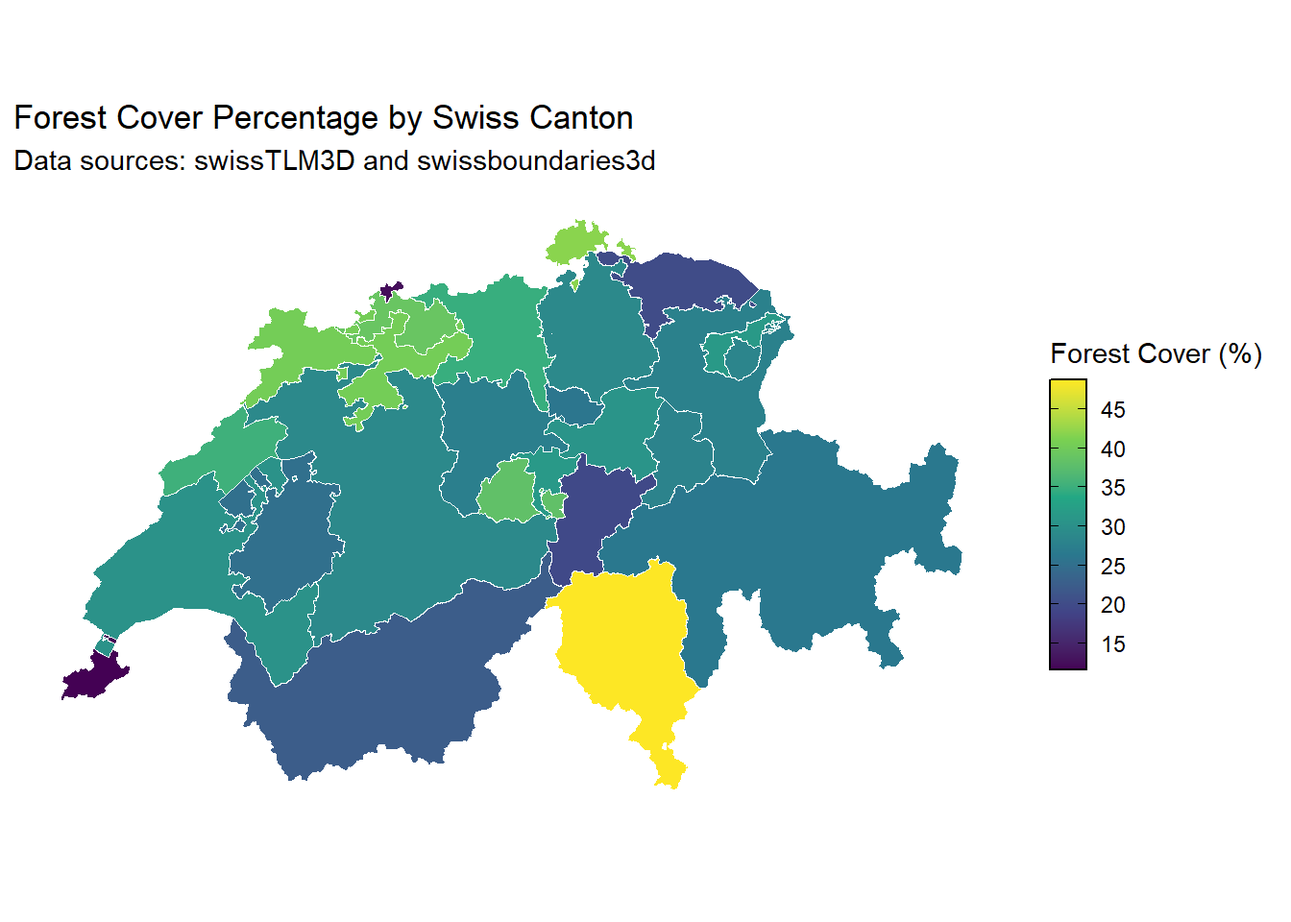
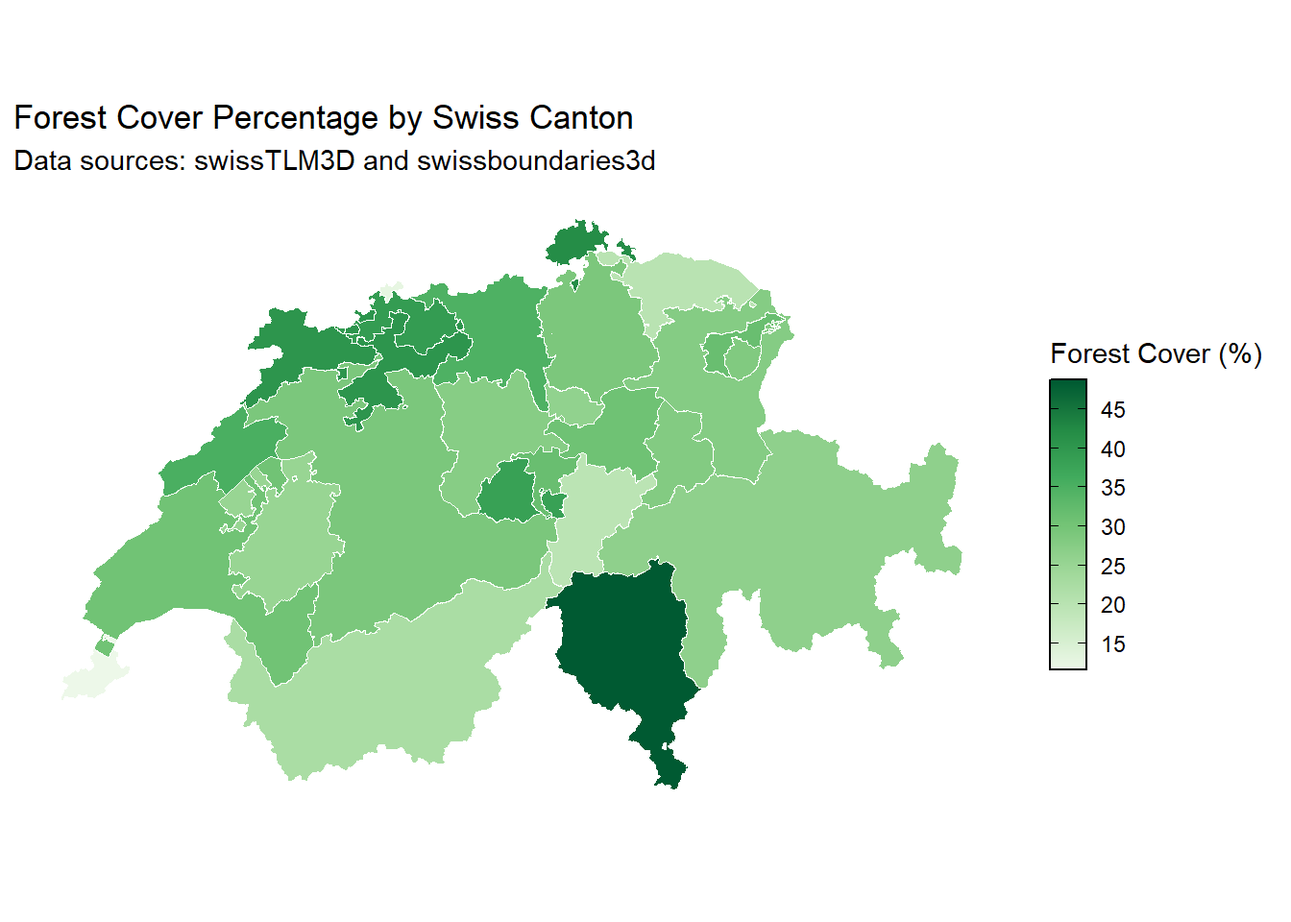
small improvements
Better colours for map in task 1,
Small Discussion for task 1,
Add legend for plots in task 3,
Use of AI statement

Changed region(s): [[0.0312, 0.2188, 0.75, 0.875], [0.8125, 0.4062, 0.8438, 0.75]]

diff --git a/_docs/index.html b/_docs/index.html
@@ -406,7 +406,7 @@ all geometries</code></pre>
 <span id="cb28-20"><a href="#cb28-20" aria-hidden="true" tabindex="-1"></a><span class="co"># Stop timer</span></span>
 <span id="cb28-21"><a href="#cb28-21" aria-hidden="true" tabindex="-1"></a><span class="fu">toc</span>()</span></code></pre></div><button title="Copy to Clipboard" class="code-copy-button"><i class="bi"></i></button></div>
 <div class="cell-output cell-output-stdout">
-<pre><code>Task 1: sf processing: 169.03 sec elapsed</code></pre>
+<pre><code>Task 1: sf processing: 168.72 sec elapsed</code></pre>
 </div>
 </div>
 <section id="visualizations" class="level4">
@@ -420,30 +420,31 @@ all geometries</code></pre>
 <span id="cb30-6"><a href="#cb30-6" aria-hidden="true" tabindex="-1"></a><span class="co"># Plot the choropleth map</span></span>
 <span id="cb30-7"><a href="#cb30-7" aria-hidden="true" tabindex="-1"></a><span class="fu">ggplot</span>(<span class="at">data =</span> cantons_result) <span class="sc">+</span></span>
 <span id="cb30-8"><a href="#cb30-8" aria-hidden="true" tabindex="-1"></a>  <span class="fu">geom_sf</span>(<span class="fu">aes</span>(<span class="at">fill =</span> forest_pct), <span class="at">color =</span> <span class="st">"white"</span>, <span class="at">linewidth =</span> <span class="fl">0.2</span>) <span class="sc">+</span></span>
-<span id="cb30-9"><a href="#cb30-9" aria-hidden="true" tabindex="-1"></a>  <span class="fu">scale_fill_viridis_c</span>(</span>
+<span id="cb30-9"><a href="#cb30-9" aria-hidden="true" tabindex="-1"></a>  <span class="fu">scale_fill_distiller</span>(</span>
 <span id="cb30-10"><a href="#cb30-10" aria-hidden="true" tabindex="-1"></a>    <span class="at">name =</span> <span class="st">"Forest Cover (%)"</span>,</span>
-<span id="cb30-11"><a href="#cb30-11" aria-hidden="true" tabindex="-1"></a>    <span class="at">option =</span> <span class="st">"viridis"</span>,</span>
-<span id="cb30-12"><a href="#cb30-12" aria-hidden="true" tabindex="-1"></a>    <span class="at">breaks =</span> breaks_vec, <span class="co"># Set specific tick marks</span></span>
-<span id="cb30-13"><a href="#cb30-13" aria-hidden="true" tabindex="-1"></a>    <span class="at">guide =</span> <span class="fu">guide_colorbar</span>(</span>
-<span id="cb30-14"><a href="#cb30-14" aria-hidden="true" tabindex="-1"></a>      <span class="at">barheight =</span> <span class="fu">unit</span>(<span class="dv">4</span>, <span class="st">"cm"</span>), </span>
-<span id="cb30-15"><a href="#cb30-15" aria-hidden="true" tabindex="-1"></a>      <span class="at">barwidth =</span> <span class="fu">unit</span>(<span class="fl">0.5</span>, <span class="st">"cm"</span>), </span>
-<span id="cb30-16"><a href="#cb30-16" aria-hidden="true" tabindex="-1"></a>      <span class="at">frame.colour =</span> <span class="st">"black"</span>,     <span class="co"># Add frame for clarity</span></span>
-<span id="cb30-17"><a href="#cb30-17" aria-hidden="true" tabindex="-1"></a>      <span class="at">ticks.colour =</span> <span class="st">"black"</span></span>
-<span id="cb30-18"><a href="#cb30-18" aria-hidden="true" tabindex="-1"></a>    )</span>
-<span id="cb30-19"><a href="#cb30-19" aria-hidden="true" tabindex="-1"></a>  ) <span class="sc">+</span></span>
-<span id="cb30-20"><a href="#cb30-20" aria-hidden="true" tabindex="-1"></a>  <span class="fu">theme_minimal</span>() <span class="sc">+</span></span>
-<span id="cb30-21"><a href="#cb30-21" aria-hidden="true" tabindex="-1"></a>  <span class="co"># Remove grid lines and axis text </span></span>
-<span id="cb30-22"><a href="#cb30-22" aria-hidden="true" tabindex="-1"></a>  <span class="fu">theme</span>(</span>
-<span id="cb30-23"><a href="#cb30-23" aria-hidden="true" tabindex="-1"></a>    <span class="at">panel.grid.major =</span> <span class="fu">element_blank</span>(),</span>
-<span id="cb30-24"><a href="#cb30-24" aria-hidden="true" tabindex="-1"></a>    <span class="at">panel.grid.minor =</span> <span class="fu">element_blank</span>(),</span>
-<span id="cb30-25"><a href="#cb30-25" aria-hidden="true" tabindex="-1"></a>    <span class="at">axis.text =</span> <span class="fu">element_blank</span>(),</span>
-<span id="cb30-26"><a href="#cb30-26" aria-hidden="true" tabindex="-1"></a>    <span class="at">axis.title =</span> <span class="fu">element_blank</span>(),</span>
-<span id="cb30-27"><a href="#cb30-27" aria-hidden="true" tabindex="-1"></a>    <span class="at">legend.position =</span> <span class="st">"right"</span></span>
-<span id="cb30-28"><a href="#cb30-28" aria-hidden="true" tabindex="-1"></a>  ) <span class="sc">+</span></span>
-<span id="cb30-29"><a href="#cb30-29" aria-hidden="true" tabindex="-1"></a>  <span class="fu">labs</span>(</span>
-<span id="cb30-30"><a href="#cb30-30" aria-hidden="true" tabindex="-1"></a>    <span class="at">title =</span> <span class="st">"Forest Cover Percentage by Swiss Canton"</span>,</span>
-<span id="cb30-31"><a href="#cb30-31" aria-hidden="true" tabindex="-1"></a>    <span class="at">subtitle =</span> <span class="st">"Data sources: swissTLM3D and swissboundaries3d"</span></span>
-<span id="cb30-32"><a href="#cb30-32" aria-hidden="true" tabindex="-1"></a>  )</span></code></pre></div><button title="Copy to Clipboard" class="code-copy-button"><i class="bi"></i></button></div>
+<span id="cb30-11"><a href="#cb30-11" aria-hidden="true" tabindex="-1"></a>    <span class="at">palette =</span> <span class="st">"Greens"</span>,</span>
+<span id="cb30-12"><a href="#cb30-12" aria-hidden="true" tabindex="-1"></a>    <span class="at">direction =</span> <span class="dv">1</span>,</span>
+<span id="cb30-13"><a href="#cb30-13" aria-hidden="true" tabindex="-1"></a>    <span class="at">breaks =</span> breaks_vec, </span>
+<span id="cb30-14"><a href="#cb30-14" aria-hidden="true" tabindex="-1"></a>    <span class="at">guide =</span> <span class="fu">guide_colorbar</span>(</span>
+<span id="cb30-15"><a href="#cb30-15" aria-hidden="true" tabindex="-1"></a>      <span class="at">barheight =</span> <span class="fu">unit</span>(<span class="dv">4</span>, <span class="st">"cm"</span>), </span>
+<span id="cb30-16"><a href="#cb30-16" aria-hidden="true" tabindex="-1"></a>      <span class="at">barwidth =</span> <span class="fu">unit</span>(<span class="fl">0.5</span>, <span class="st">"cm"</span>), </span>
+<span id="cb30-17"><a href="#cb30-17" aria-hidden="true" tabindex="-1"></a>      <span class="at">frame.colour =</span> <span class="st">"black"</span>,     </span>
+<span id="cb30-18"><a href="#cb30-18" aria-hidden="true" tabindex="-1"></a>      <span class="at">ticks.colour =</span> <span class="st">"black"</span></span>
+<span id="cb30-19"><a href="#cb30-19" aria-hidden="true" tabindex="-1"></a>    )</span>
+<span id="cb30-20"><a href="#cb30-20" aria-hidden="true" tabindex="-1"></a>  ) <span class="sc">+</span></span>
+<span id="cb30-21"><a href="#cb30-21" aria-hidden="true" tabindex="-1"></a>  <span class="fu">theme_minimal</span>() <span class="sc">+</span></span>
+<span id="cb30-22"><a href="#cb30-22" aria-hidden="true" tabindex="-1"></a>  <span class="co"># Remove grid lines and axis text </span></span>
+<span id="cb30-23"><a href="#cb30-23" aria-hidden="true" tabindex="-1"></a>  <span class="fu">theme</span>(</span>
+<span id="cb30-24"><a href="#cb30-24" aria-hidden="true" tabindex="-1"></a>    <span class="at">panel.grid.major =</span> <span class="fu">element_blank</span>(),</span>
+<span id="cb30-25"><a href="#cb30-25" aria-hidden="true" tabindex="-1"></a>    <span class="at">panel.grid.minor =</span> <span class="fu">element_blank</span>(),</span>
+<span id="cb30-26"><a href="#cb30-26" aria-hidden="true" tabindex="-1"></a>    <span class="at">axis.text =</span> <span class="fu">element_blank</span>(),</span>
+<span id="cb30-27"><a href="#cb30-27" aria-hidden="true" tabindex="-1"></a>    <span class="at">axis.title =</span> <span class="fu">element_blank</span>(),</span>
+<span id="cb30-28"><a href="#cb30-28" aria-hidden="true" tabindex="-1"></a>    <span class="at">legend.position =</span> <span class="st">"right"</span></span>
+<span id="cb30-29"><a href="#cb30-29" aria-hidden="true" tabindex="-1"></a>  ) <span class="sc">+</span></span>
+<span id="cb30-30"><a href="#cb30-30" aria-hidden="true" tabindex="-1"></a>  <span class="fu">labs</span>(</span>
+<span id="cb30-31"><a href="#cb30-31" aria-hidden="true" tabindex="-1"></a>    <span class="at">title =</span> <span class="st">"Forest Cover Percentage by Swiss Canton"</span>,</span>
+<span id="cb30-32"><a href="#cb30-32" aria-hidden="true" tabindex="-1"></a>    <span class="at">subtitle =</span> <span class="st">"Data sources: swissTLM3D and swissboundaries3d"</span></span>
+<span id="cb30-33"><a href="#cb30-33" aria-hidden="true" tabindex="-1"></a>  )</span></code></pre></div><button title="Copy to Clipboard" class="code-copy-button"><i class="bi"></i></button></div>
 <div class="cell-output-display">
 <div>
 <figure class="figure">
@@ -458,11 +459,11 @@ all geometries</code></pre>
 <span id="cb31-3"><a href="#cb31-3" aria-hidden="true" tabindex="-1"></a>cantons_result <span class="sc">|&gt;</span></span>
 <span id="cb31-4"><a href="#cb31-4" aria-hidden="true" tabindex="-1"></a>  <span class="fu">st_drop_geometry</span>() <span class="sc">|&gt;</span> <span class="co"># Remove geometry for standard plotting</span></span>
 <span id="cb31-5"><a href="#cb31-5" aria-hidden="true" tabindex="-1"></a>  <span class="fu">ggplot</span>(<span class="fu">aes</span>(<span class="at">x =</span> <span class="fu">reorder</span>(name, <span class="sc">-</span>forest_pct), <span class="at">y =</span> forest_pct)) <span class="sc">+</span></span>
-<span id="cb31-6"><a href="#cb31-6" aria-hidden="true" tabindex="-1"></a>  <span class="co"># Use geom_col for pre-calculated values. Using a static color from viridis palette.</span></span>
+<span id="cb31-6"><a href="#cb31-6" aria-hidden="true" tabindex="-1"></a>  <span class="co"># Use geom_col for pre-calculated values.</span></span>
 <span id="cb31-7"><a href="#cb31-7" aria-hidden="true" tabindex="-1"></a>  <span class="fu">geom_col</span>(<span class="at">fill =</span> <span class="st">"#3b528b"</span>, <span class="at">width =</span> <span class="fl">0.8</span>) <span class="sc">+</span></span>
 <span id="cb31-8"><a href="#cb31-8" aria-hidden="true" tabindex="-1"></a>  <span class="co"># Add text labels on top of bars for precise reading</span></span>
 <span id="cb31-9"><a href="#cb31-9" aria-hidden="true" tabindex="-1"></a>  <span class="fu">geom_text</span>(<span class="fu">aes</span>(<span class="at">label =</span> <span class="fu">round</span>(forest_pct, <span class="dv">1</span>)), <span class="at">vjust =</span> <span class="sc">-</span><span class="fl">0.5</span>, <span class="at">size =</span> <span class="dv">3</span>) <span class="sc">+</span></span>
-<span id="cb31-10"><a href="#cb31-10" aria-hidden="true" tabindex="-1"></a>  <span class="co"># Adjust y-axis scale to fit labels nicely</span></span>
+<span id="cb31-10"><a href="#cb31-10" aria-hidden="true" tabindex="-1"></a>  <span class="co"># Adjust y-axis scale to fit labels</span></span>
 <span id="cb31-11"><a href="#cb31-11" aria-hidden="true" tabindex="-1"></a>  <span class="fu">scale_y_continuous</span>(<span class="at">expand =</span> <span class="fu">expansion</span>(<span class="at">mult =</span> <span class="fu">c</span>(<span class="dv">0</span>, <span class="fl">0.1</span>))) <span class="sc">+</span></span>
 <span id="cb31-12"><a href="#cb31-12" aria-hidden="true" tabindex="-1"></a>  <span class="fu">theme_minimal</span>() <span class="sc">+</span></span>
 <span id="cb31-13"><a href="#cb31-13" aria-hidden="true" tabindex="-1"></a>  <span class="co"># Rotate x-axis labels to prevent overlapping and remove axis lines</span></span>
@@ -483,6 +484,10 @@ all geometries</code></pre>
 </div>
 </div>
 </section>
+</section>
+<section id="discussion" class="level3">
+<h3 class="anchored" data-anchor-id="discussion">Discussion</h3>
+<p>The results show that the percentage of forest cover varies between ~12 % and ~49 % across all cantons, with Ticino having the highest percentage and the Genève the lowest. Since the dataset is relatively large, this calculation method takes quite some time. To speed this up without changing the general approach, we could also simplify the geometries before the intersection, but this would mean that we have to sacrifice some precision of the results. Additionally, I found that the choice of which forest categories to consider change the results by a few percentage points, showing that the definition of “forest” can have a significant impact on the results.</p>
 </section>
 </section>
 <section id="task-2" class="level2">
@@ -547,7 +552,7 @@ all geometries</code></pre>
 <span id="cb40-16"><a href="#cb40-16" aria-hidden="true" tabindex="-1"></a><span class="co"># Stop the timer</span></span>
 <span id="cb40-17"><a href="#cb40-17" aria-hidden="true" tabindex="-1"></a><span class="fu">toc</span>()</span></code></pre></div><button title="Copy to Clipboard" class="code-copy-button"><i class="bi"></i></button></div>
 <div class="cell-output cell-output-stdout">
-<pre><code>Task 2 DuckDB processing: 95.2 sec elapsed</code></pre>
+<pre><code>Task 2 DuckDB processing: 106.22 sec elapsed</code></pre>
 </div>
 <div class="code-copy-outer-scaffold"><div class="sourceCode cell-code" id="cb42"><pre class="sourceCode r code-with-copy"><code class="sourceCode r"><span id="cb42-1"><a href="#cb42-1" aria-hidden="true" tabindex="-1"></a><span class="co"># Disconnect from the database</span></span>
 <span id="cb42-2"><a href="#cb42-2" aria-hidden="true" tabindex="-1"></a><span class="fu">dbDisconnect</span>(con, <span class="at">shutdown =</span> <span class="cn">TRUE</span>)</span>
@@ -555,13 +560,13 @@ all geometries</code></pre>
 <span id="cb42-4"><a href="#cb42-4" aria-hidden="true" tabindex="-1"></a><span class="co"># View the results</span></span>
 <span id="cb42-5"><a href="#cb42-5" aria-hidden="true" tabindex="-1"></a><span class="fu">head</span>(duckdb_results)</span></code></pre></div><button title="Copy to Clipboard" class="code-copy-button"><i class="bi"></i></button></div>
 <div class="cell-output cell-output-stdout">
-<pre><code>        name canton_area total_forest_area forest_pct
-1        Uri  1076534778         154092586   14.31376
-2     Aargau  1403798009         489877996   34.89662
-3     Luzern  1493517344         406495581   27.21733
-4 Graubünden  7105296294        1614791500   22.72659
-5     Genève   282487196          32900992   11.64690
-6     Valais  5224635588        1039721966   19.90037</code></pre>
+<pre><code>              name canton_area total_forest_area forest_pct
+1 Basel-Landschaft   517668761         202524572   39.12242
+2             Bern  5958504819        1667241901   27.98088
+3        Neuchâtel   802165174         274288117   34.19347
+4         Fribourg  1672427799         417715301   24.97658
+5        Nidwalden   275845122          83545339   30.28705
+6      Basel-Stadt    36953764           4676370   12.65465</code></pre>
 </div>
 </div>
 </section>
@@ -596,9 +601,9 @@ all geometries</code></pre>
 </div>
 </div>
 </section>
-<section id="discussion" class="level3">
-<h3 class="anchored" data-anchor-id="discussion">Discussion</h3>
-<p>In the performance measure with tictoc we can see that DuckDB completet the spatial intersection and aggregation much faster compared to the “standard” R process with the sf library. This is because DuckDB uses vectorized, multi-threaded execution and optimizes the SQL query plan before running it, while sf processes geometries sequentially in R’s memory. It is also visible that there are small discrepancies in the percentage values for the forest cover per canton (DuckDB slightly lower percentages). A reason for this could be that i used multiple forest categories in task 1, while in the DuckDB database maybe fewer or only 1 category was defined. According to Gemini, <code>st_intersection</code> also requires strict geometry validity which alters the polygons slightly before calculation. The raw DuckDB approach processes the geometries exactly as they are in the database, which may lead to additional, minor area calculation differences.</p>
+<section id="discussion-1" class="level3">
+<h3 class="anchored" data-anchor-id="discussion-1">Discussion</h3>
+<p>In the performance measure with tictoc we can see that DuckDB completet the spatial intersection and aggregation much faster compared to the “standard” R process with the sf library. This is because DuckDB uses vectorized, multi-threaded execution and optimizes the SQL query plan before running it, while sf processes geometries sequentially in R’s memory. While the order of the cantons by forest cover remains the same, there are slight discrepancies in the percentage values between the two methods (DuckDB gives slightly lower percentages). A reason for this could be that I used multiple forest categories in task 1, while in the DuckDB database maybe fewer or only 1 category was defined. According to Gemini, <code>st_intersection</code> also requires strict geometry validity which alters the polygons slightly before calculation. The raw DuckDB approach processes the geometries exactly as they are in the database, which may lead to additional, minor area calculation differences.</p>
 </section>
 </section>
 <section id="task-3" class="level2">
@@ -695,14 +700,15 @@ that</code></pre>
 <span id="cb61-7"><a href="#cb61-7" aria-hidden="true" tabindex="-1"></a></span>
 <span id="cb61-8"><a href="#cb61-8" aria-hidden="true" tabindex="-1"></a><span class="co"># Plot chessboard with Queen's case</span></span>
 <span id="cb61-9"><a href="#cb61-9" aria-hidden="true" tabindex="-1"></a><span class="fu">ggplot</span>() <span class="sc">+</span></span>
-<span id="cb61-10"><a href="#cb61-10" aria-hidden="true" tabindex="-1"></a>  <span class="co"># Background destination grid</span></span>
-<span id="cb61-11"><a href="#cb61-11" aria-hidden="true" tabindex="-1"></a>  <span class="fu">geom_sf</span>(<span class="at">data =</span> grid_dest, <span class="at">fill =</span> <span class="st">"lightgrey"</span>, <span class="at">color =</span> <span class="st">"white"</span>) <span class="sc">+</span> </span>
-<span id="cb61-12"><a href="#cb61-12" aria-hidden="true" tabindex="-1"></a>  <span class="co"># Origin square in the center</span></span>
-<span id="cb61-13"><a href="#cb61-13" aria-hidden="true" tabindex="-1"></a>  <span class="fu">geom_sf</span>(<span class="at">data =</span> grid_orig, <span class="at">fill =</span> <span class="st">"lightblue"</span>, <span class="at">color =</span> <span class="st">"white"</span>) <span class="sc">+</span></span>
-<span id="cb61-14"><a href="#cb61-14" aria-hidden="true" tabindex="-1"></a>  <span class="co"># Sampled points in the valid Queen's movement squares</span></span>
-<span id="cb61-15"><a href="#cb61-15" aria-hidden="true" tabindex="-1"></a>  <span class="fu">geom_sf</span>(<span class="at">data =</span> grid_queen, <span class="at">color =</span> <span class="st">"red"</span>, <span class="at">size =</span> <span class="fl">0.5</span>) <span class="sc">+</span> </span>
-<span id="cb61-16"><a href="#cb61-16" aria-hidden="true" tabindex="-1"></a>  <span class="fu">theme_void</span>() <span class="sc">+</span></span>
-<span id="cb61-17"><a href="#cb61-17" aria-hidden="true" tabindex="-1"></a>  <span class="fu">labs</span>(<span class="at">title =</span> <span class="st">"Queen's Case Intersection (F***T****)"</span>)</span></code></pre></div><button title="Copy to Clipboard" class="code-copy-button"><i class="bi"></i></button></div>
+<span id="cb61-10"><a href="#cb61-10" aria-hidden="true" tabindex="-1"></a>  <span class="fu">geom_sf</span>(<span class="at">data =</span> grid_dest, <span class="fu">aes</span>(<span class="at">fill =</span> <span class="st">"Destination"</span>), <span class="at">color =</span> <span class="st">"white"</span>) <span class="sc">+</span> </span>
+<span id="cb61-11"><a href="#cb61-11" aria-hidden="true" tabindex="-1"></a>  <span class="fu">geom_sf</span>(<span class="at">data =</span> grid_orig, <span class="fu">aes</span>(<span class="at">fill =</span> <span class="st">"Origin"</span>), <span class="at">color =</span> <span class="st">"white"</span>) <span class="sc">+</span></span>
+<span id="cb61-12"><a href="#cb61-12" aria-hidden="true" tabindex="-1"></a>  <span class="co"># Convert sample to sf and map color inside aes()</span></span>
+<span id="cb61-13"><a href="#cb61-13" aria-hidden="true" tabindex="-1"></a>  <span class="fu">geom_sf</span>(<span class="at">data =</span> <span class="fu">st_as_sf</span>(grid_queen), <span class="fu">aes</span>(<span class="at">color =</span> <span class="st">"Queen's case"</span>), <span class="at">size =</span> <span class="fl">0.5</span>) <span class="sc">+</span> </span>
+<span id="cb61-14"><a href="#cb61-14" aria-hidden="true" tabindex="-1"></a>  <span class="co"># Define the manual colors for legends</span></span>
+<span id="cb61-15"><a href="#cb61-15" aria-hidden="true" tabindex="-1"></a>  <span class="fu">scale_fill_manual</span>(<span class="at">name =</span> <span class="cn">NULL</span>, <span class="at">values =</span> <span class="fu">c</span>(<span class="st">"Destination"</span> <span class="ot">=</span> <span class="st">"lightgrey"</span>, <span class="st">"Origin"</span> <span class="ot">=</span> <span class="st">"lightblue"</span>)) <span class="sc">+</span></span>
+<span id="cb61-16"><a href="#cb61-16" aria-hidden="true" tabindex="-1"></a>  <span class="fu">scale_color_manual</span>(<span class="at">name =</span> <span class="cn">NULL</span>, <span class="at">values =</span> <span class="fu">c</span>(<span class="st">"Queen's case"</span> <span class="ot">=</span> <span class="st">"red"</span>)) <span class="sc">+</span></span>
+<span id="cb61-17"><a href="#cb61-17" aria-hidden="true" tabindex="-1"></a>  <span class="fu">theme_void</span>() <span class="sc">+</span></span>
+<span id="cb61-18"><a href="#cb61-18" aria-hidden="true" tabindex="-1"></a>  <span class="fu">labs</span>(<span class="at">title =</span> <span class="st">"Queen's Case Intersection (F***T****)"</span>)</span></code></pre></div><button title="Copy to Clipboard" class="code-copy-button"><i class="bi"></i></button></div>
 <div class="cell-output-display">
 <div>
 <figure class="figure">
@@ -717,22 +723,23 @@ that</code></pre>
 <p>The Bishop moves diagonally, meaning its valid target squares only touch the origin square at a single, distinct corner. Therefore, the DE-9IM pattern for the Bishop’s case would be: <code>F***0****</code></p>
 <div class="cell">
 <div class="code-copy-outer-scaffold"><div class="sourceCode cell-code" id="cb62"><pre class="sourceCode r code-with-copy"><code class="sourceCode r"><span id="cb62-1"><a href="#cb62-1" aria-hidden="true" tabindex="-1"></a><span class="co"># Define custom predicate for the Bishop's case</span></span>
-<span id="cb62-2"><a href="#cb62-2" aria-hidden="true" tabindex="-1"></a>st_queen <span class="ot">&lt;-</span> \(x, y) <span class="fu">st_relate</span>(x, y, <span class="at">pattern =</span> <span class="st">"F***0****"</span>)</span>
+<span id="cb62-2"><a href="#cb62-2" aria-hidden="true" tabindex="-1"></a>st_bishop <span class="ot">&lt;-</span> \(x, y) <span class="fu">st_relate</span>(x, y, <span class="at">pattern =</span> <span class="st">"F***0****"</span>)</span>
 <span id="cb62-3"><a href="#cb62-3" aria-hidden="true" tabindex="-1"></a></span>
 <span id="cb62-4"><a href="#cb62-4" aria-hidden="true" tabindex="-1"></a><span class="co"># Filter grid and generate sample points based on the predicate</span></span>
-<span id="cb62-5"><a href="#cb62-5" aria-hidden="true" tabindex="-1"></a>grid_queen <span class="ot">&lt;-</span> grid_dest[grid_orig, , op <span class="ot">=</span> st_queen] <span class="sc">|&gt;</span> </span>
+<span id="cb62-5"><a href="#cb62-5" aria-hidden="true" tabindex="-1"></a>grid_bishop <span class="ot">&lt;-</span> grid_dest[grid_orig, , op <span class="ot">=</span> st_bishop] <span class="sc">|&gt;</span> </span>
 <span id="cb62-6"><a href="#cb62-6" aria-hidden="true" tabindex="-1"></a>  <span class="fu">st_sample</span>(<span class="dv">1000</span>, <span class="at">type =</span> <span class="st">"hexagonal"</span>, <span class="at">by_polygon =</span> <span class="cn">TRUE</span>)</span>
 <span id="cb62-7"><a href="#cb62-7" aria-hidden="true" tabindex="-1"></a></span>
 <span id="cb62-8"><a href="#cb62-8" aria-hidden="true" tabindex="-1"></a><span class="co"># Plot chessboard with Bishop's case</span></span>
 <span id="cb62-9"><a href="#cb62-9" aria-hidden="true" tabindex="-1"></a><span class="fu">ggplot</span>() <span class="sc">+</span></span>
-<span id="cb62-10"><a href="#cb62-10" aria-hidden="true" tabindex="-1"></a>  <span class="co"># Background destination grid</span></span>
-<span id="cb62-11"><a href="#cb62-11" aria-hidden="true" tabindex="-1"></a>  <span class="fu">geom_sf</span>(<span class="at">data =</span> grid_dest, <span class="at">fill =</span> <span class="st">"lightgrey"</span>, <span class="at">color =</span> <span class="st">"white"</span>) <span class="sc">+</span> </span>
-<span id="cb62-12"><a href="#cb62-12" aria-hidden="true" tabindex="-1"></a>  <span class="co"># Origin square in the center</span></span>
-<span id="cb62-13"><a href="#cb62-13" aria-hidden="true" tabindex="-1"></a>  <span class="fu">geom_sf</span>(<span class="at">data =</span> grid_orig, <span class="at">fill =</span> <span class="st">"lightblue"</span>, <span class="at">color =</span> <span class="st">"white"</span>) <span class="sc">+</span></span>
-<span id="cb62-14"><a href="#cb62-14" aria-hidden="true" tabindex="-1"></a>  <span class="co"># Sampled points in the valid Queen's movement squares</span></span>
-<span id="cb62-15"><a href="#cb62-15" aria-hidden="true" tabindex="-1"></a>  <span class="fu">geom_sf</span>(<span class="at">data =</span> grid_queen, <span class="at">color =</span> <span class="st">"red"</span>, <span class="at">size =</span> <span class="fl">0.5</span>) <span class="sc">+</span> </span>
-<span id="cb62-16"><a href="#cb62-16" aria-hidden="true" tabindex="-1"></a>  <span class="fu">theme_void</span>() <span class="sc">+</span></span>
-<span id="cb62-17"><a href="#cb62-17" aria-hidden="true" tabindex="-1"></a>  <span class="fu">labs</span>(<span class="at">title =</span> <span class="st">"Bishop's Case Intersection (F***0****)"</span>)</span></code></pre></div><button title="Copy to Clipboard" class="code-copy-button"><i class="bi"></i></button></div>
+<span id="cb62-10"><a href="#cb62-10" aria-hidden="true" tabindex="-1"></a>  <span class="fu">geom_sf</span>(<span class="at">data =</span> grid_dest, <span class="fu">aes</span>(<span class="at">fill =</span> <span class="st">"Destination"</span>), <span class="at">color =</span> <span class="st">"white"</span>) <span class="sc">+</span> </span>
+<span id="cb62-11"><a href="#cb62-11" aria-hidden="true" tabindex="-1"></a>  <span class="fu">geom_sf</span>(<span class="at">data =</span> grid_orig, <span class="fu">aes</span>(<span class="at">fill =</span> <span class="st">"Origin"</span>), <span class="at">color =</span> <span class="st">"white"</span>) <span class="sc">+</span></span>
+<span id="cb62-12"><a href="#cb62-12" aria-hidden="true" tabindex="-1"></a>  <span class="co"># Convert sample to sf and map color inside aes()</span></span>
+<span id="cb62-13"><a href="#cb62-13" aria-hidden="true" tabindex="-1"></a>  <span class="fu">geom_sf</span>(<span class="at">data =</span> <span class="fu">st_as_sf</span>(grid_bishop), <span class="fu">aes</span>(<span class="at">color =</span> <span class="st">"Bishop's case"</span>), <span class="at">size =</span> <span class="fl">0.5</span>) <span class="sc">+</span> </span>
+<span id="cb62-14"><a href="#cb62-14" aria-hidden="true" tabindex="-1"></a>  <span class="co"># Define the manual colors for legends</span></span>
+<span id="cb62-15"><a href="#cb62-15" aria-hidden="true" tabindex="-1"></a>  <span class="fu">scale_fill_manual</span>(<span class="at">name =</span> <span class="cn">NULL</span>, <span class="at">values =</span> <span class="fu">c</span>(<span class="st">"Destination"</span> <span class="ot">=</span> <span class="st">"lightgrey"</span>, <span class="st">"Origin"</span> <span class="ot">=</span> <span class="st">"lightblue"</span>)) <span class="sc">+</span></span>
+<span id="cb62-16"><a href="#cb62-16" aria-hidden="true" tabindex="-1"></a>  <span class="fu">scale_color_manual</span>(<span class="at">name =</span> <span class="cn">NULL</span>, <span class="at">values =</span> <span class="fu">c</span>(<span class="st">"Bishop's case"</span> <span class="ot">=</span> <span class="st">"red"</span>)) <span class="sc">+</span></span>
+<span id="cb62-17"><a href="#cb62-17" aria-hidden="true" tabindex="-1"></a>  <span class="fu">theme_void</span>() <span class="sc">+</span></span>
+<span id="cb62-18"><a href="#cb62-18" aria-hidden="true" tabindex="-1"></a>  <span class="fu">labs</span>(<span class="at">title =</span> <span class="st">"Bishop's Case Intersection (F***0****)"</span>)</span></code></pre></div><button title="Copy to Clipboard" class="code-copy-button"><i class="bi"></i></button></div>
 <div class="cell-output-display">
 <div>
 <figure class="figure">
@@ -742,6 +749,10 @@ that</code></pre>
 </div>
 </div>
 </section>
+</section>
+<section id="use-of-ai" class="level2">
+<h2 class="anchored" data-anchor-id="use-of-ai">Use of AI</h2>
+<p>I tried to solve the tasks mostly without the help of AI, but I used Gemini correct my solutions and improve some of my code if I was stuck or unsure.</p>
 </section>
 </section>
 
